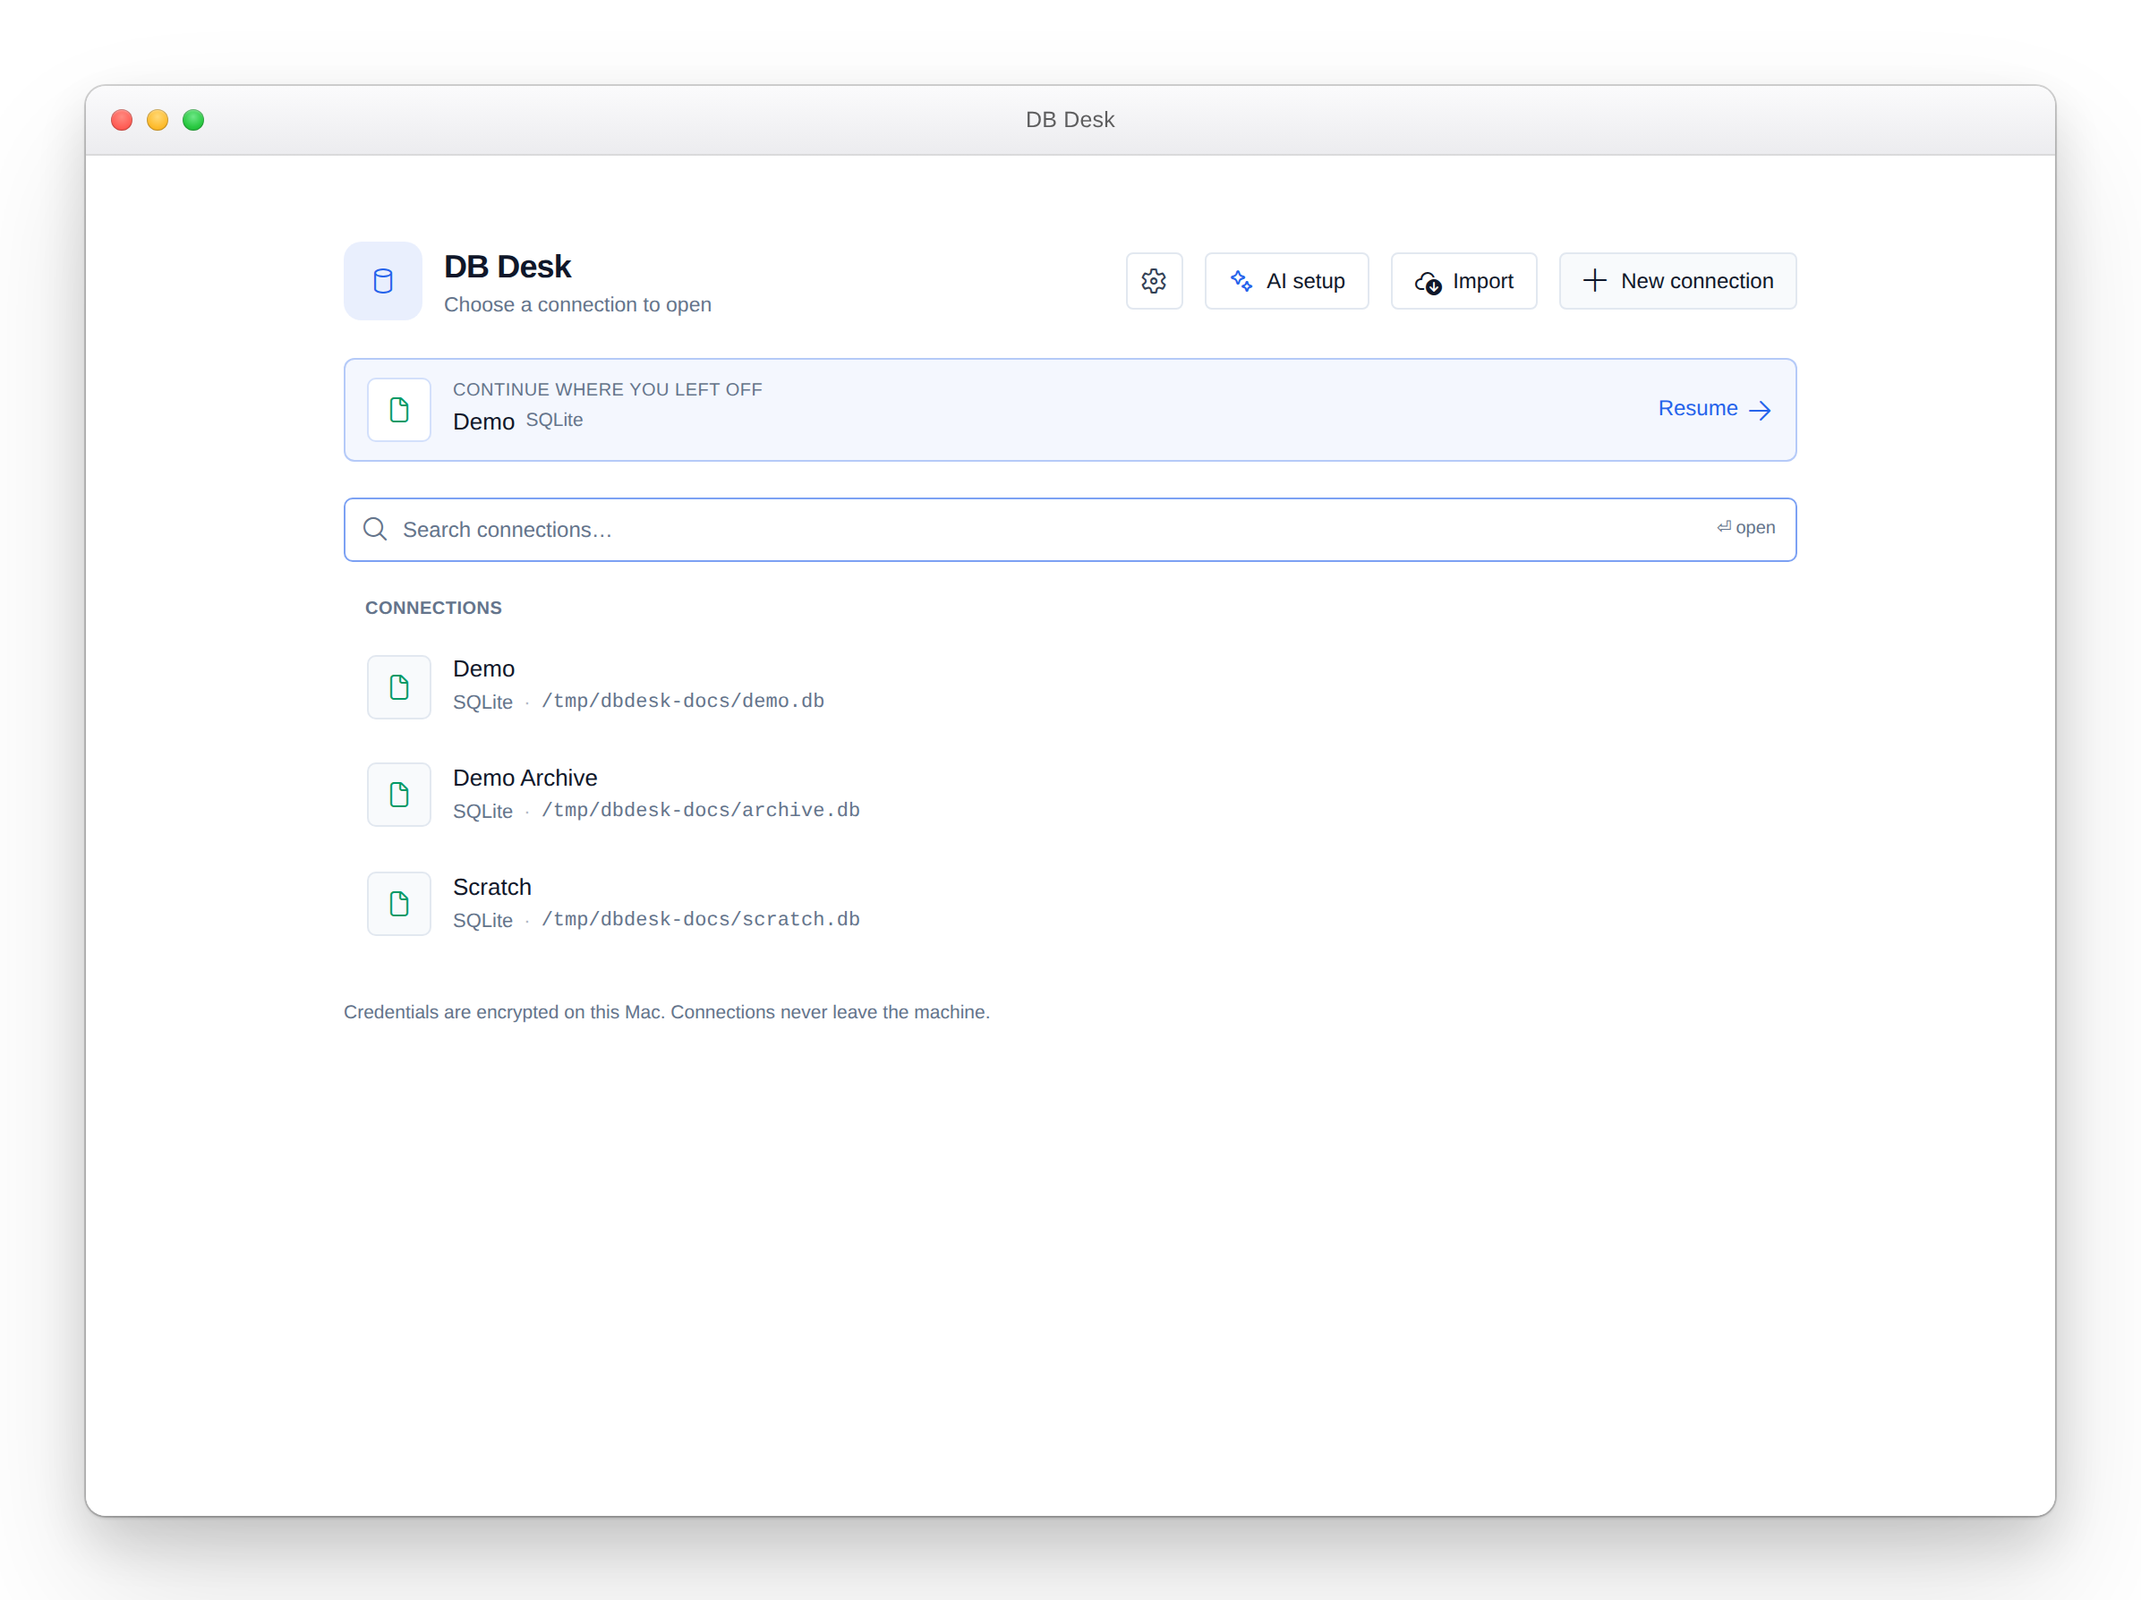
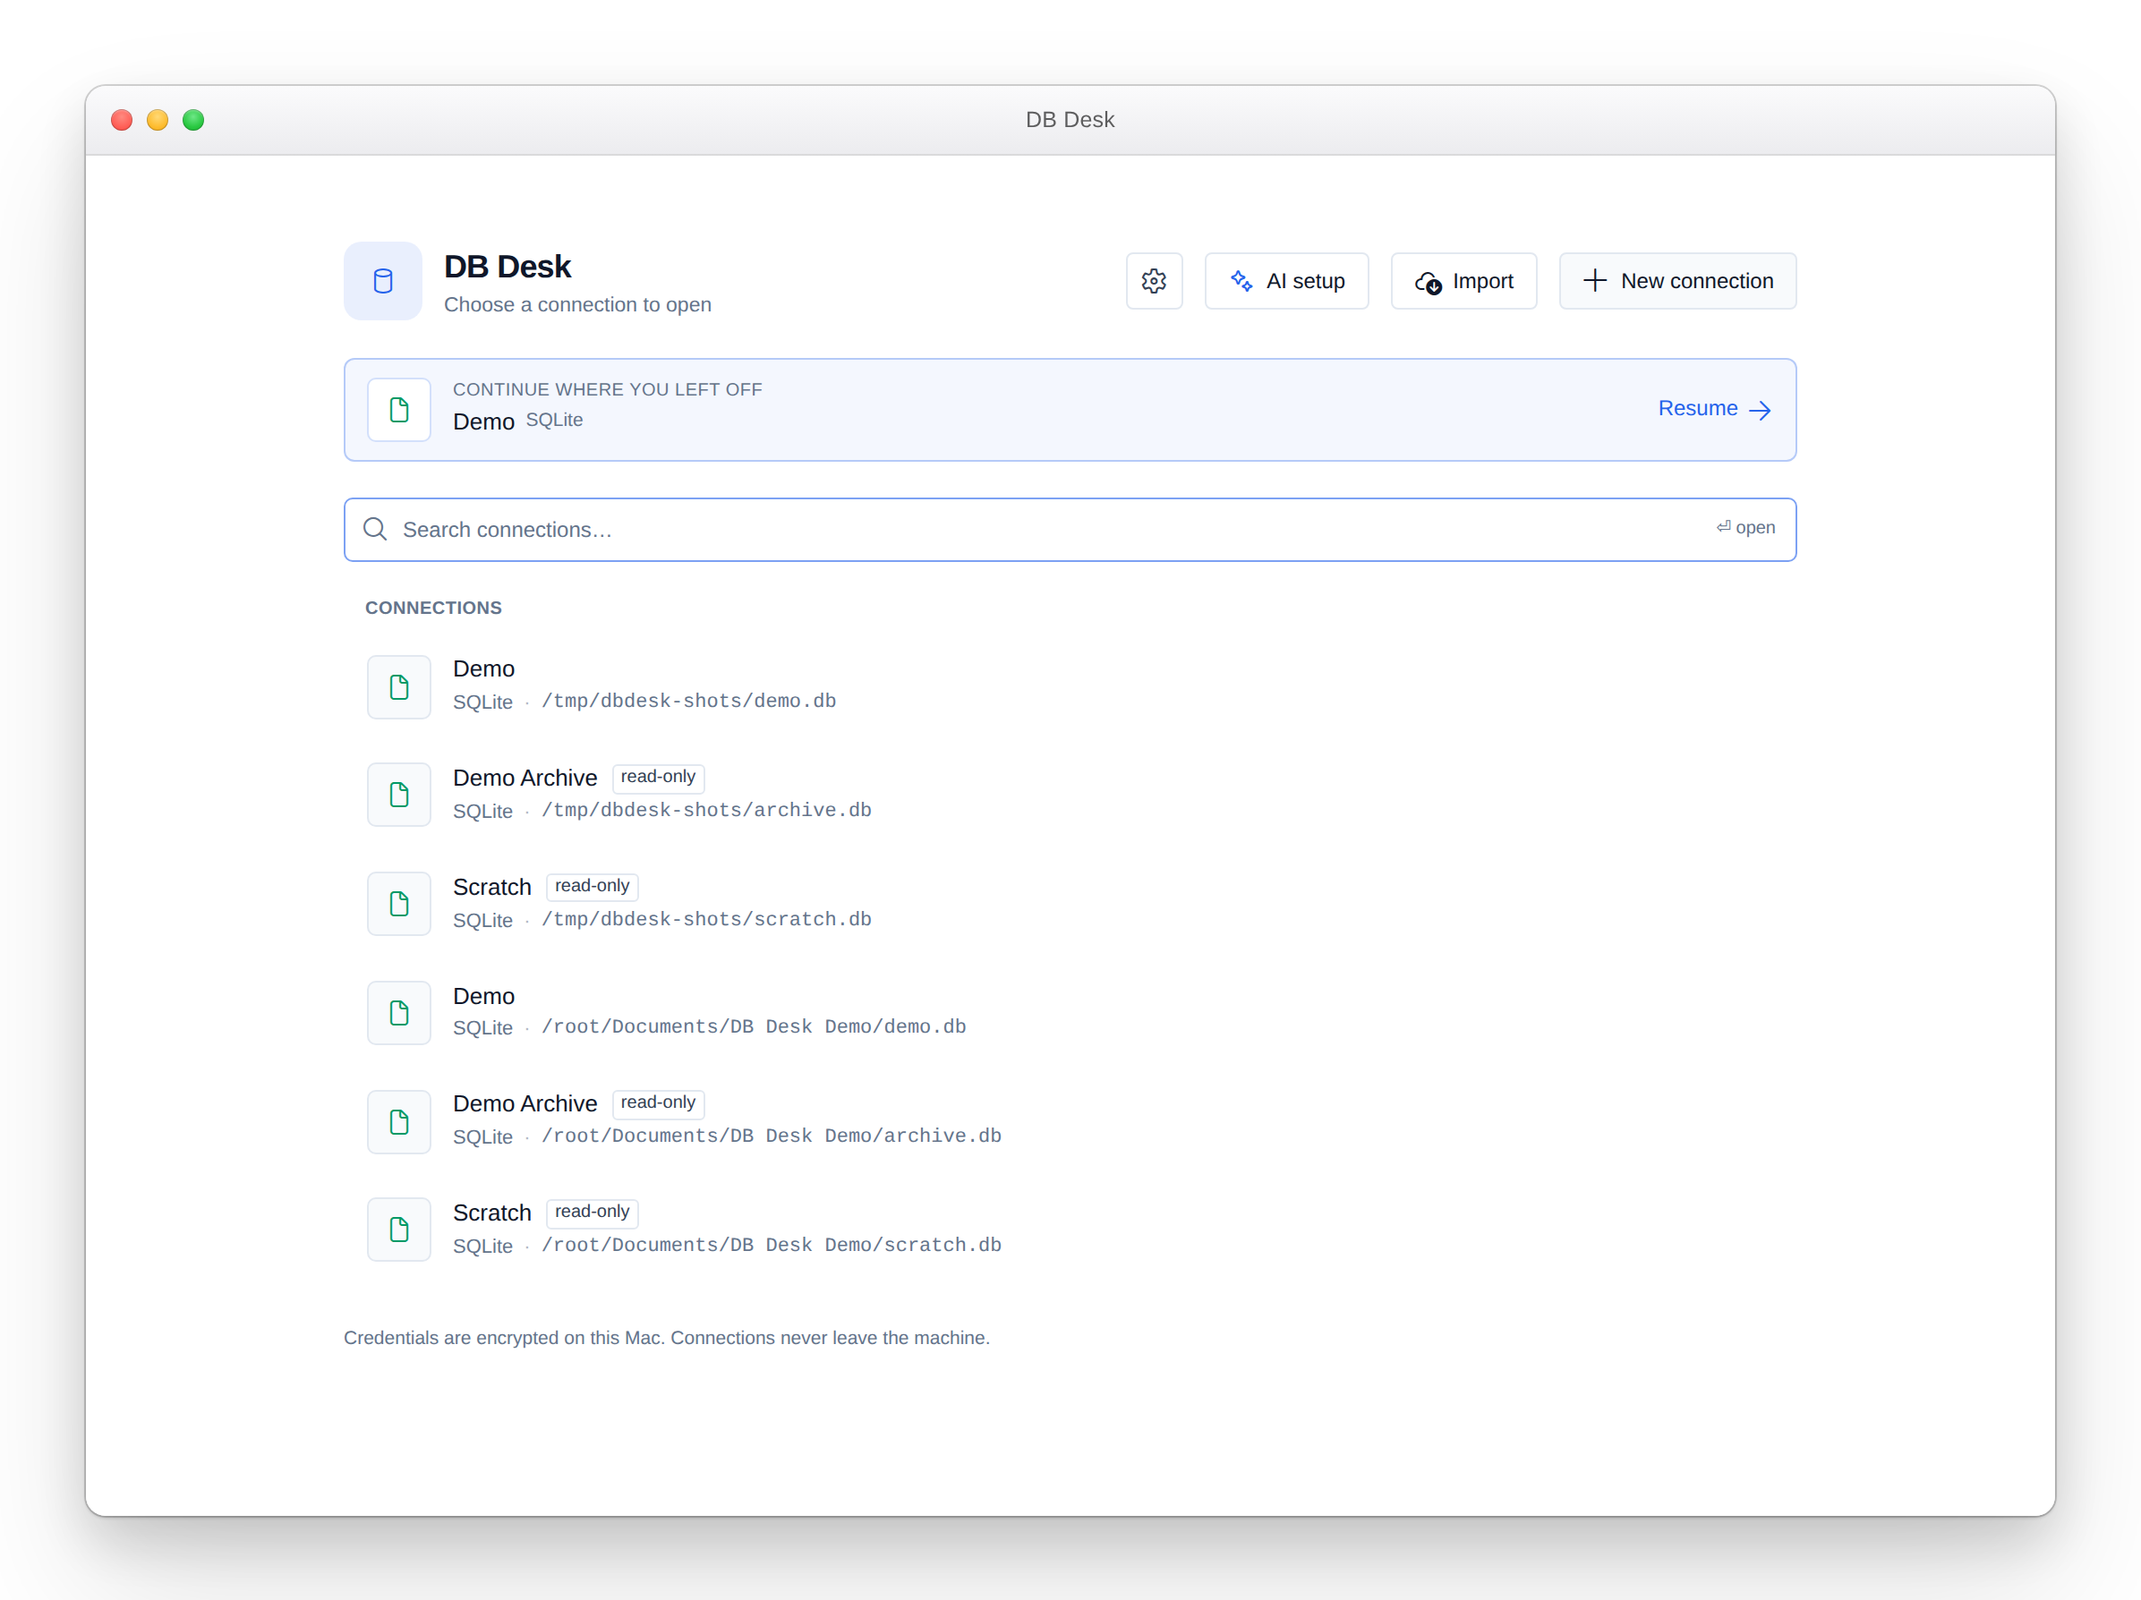
docs: re-shoot the screenshots on 0.13.12, and fix what the shoot exposed
The old images showed 0.13.8 with data that no longer matched the UI. Both steps are
scripts now, so the next re-shoot is two commands instead of an afternoon:

- make-demo-db.py builds demo/archive/scratch SQLite files from invented fixture data
  (16 customers, 17 orders, products, events) — deterministic, so a re-shot screenshot
  never contradicts an earlier one.
- capture-screenshots.py drives the real UI at 1100x760@2x and asserts what it expects:
  the filter must actually narrow the grid (17 rows -> 12 paid), the SQL tab must report
  results. A UI change fails here instead of shipping a shot of the wrong thing.

The filter screenshot now shows the filter applied; the old one showed a draft while
the grid still listed pending and refunded rows beside it.

Shooting the picker exposed a real API bug: POST /connections doubles as the update
endpoint, and a partial body (flipping declare -r BASHOPTS="checkwinsize:cmdhist:complete_fullquote:extquote:force_fignore:globasciiranges:globskipdots:hostcomplete:interactive_comments:patsub_replacement:progcomp:promptvars:sourcepath"
declare -ar BASH_VERSINFO=([0]="5" [1]="2" [2]="21" [3]="1" [4]="release" [5]="x86_64-pc-linux-gnu")
declare -ir EUID="0"
declare -ir PPID="2232120"
declare -r SHELLOPTS="braceexpand:hashall:interactive-comments"
declare -ir UID="0") renamed the connection to 'Database'
because only the name lacked a fall-back to the stored row. Fixed, with a regression
test.

diff --git a/scripts/capture-screenshots.py b/scripts/capture-screenshots.py
@@ -1,0 +1,123 @@
+#!/usr/bin/env python3
+"""Re-take the documentation screenshots against the current build.
+
+Run it against a scratch instance of the app (desktop mode, throwaway DBDESK_HOME),
+then frame the results with scripts/frame-window.py:
+
+    scripts/make-demo-db.py /tmp/dbdesk-shots
+    PORT=8930 DBDESK_HOME=/tmp/dbdesk-shots-home python backend/app.py &
+    scripts/capture-screenshots.py http://127.0.0.1:8930 docs/img/src
+    scripts/frame-window.py docs/img/src docs/img
+
+Every step asserts what it expects instead of sleeping and hoping, so a UI change
+fails loudly here rather than shipping a screenshot of the wrong thing.
+"""
+
+from __future__ import annotations
+
+import sys
+from pathlib import Path
+
+from playwright.sync_api import sync_playwright
+
+WIDTH, HEIGHT, SCALE = 1100, 760, 2
+
+QUERY = """select o.id, c.name, o.total, o.status
+from orders o
+join customers c on c.id = o.customer_id
+order by o.total desc
+limit 12;
+"""
+
+
+def open_connection(page, name: str = "Demo") -> str:
+    """Open one named connection, whatever state the picker is in.
+
+    By name, not by index: saving a connection moves it to the end of the list, so the
+    first entry is whatever was edited last.
+    """
+    connection = page.evaluate(
+        """async (name) => {
+             const all = (await (await fetch('/api/connections')).json()).connections;
+             const hit = all.find(c => c.name === name);
+             if (!hit) throw new Error('no connection named ' + name);
+             return hit.id;
+           }""",
+        name,
+    )
+    page.evaluate(f"localStorage.setItem('dbdesk.activeConnection','{connection}')")
+    page.reload(wait_until="networkidle")
+    page.wait_for_timeout(800)
+    # The picker advertises "⏎ open" for the remembered connection.
+    page.keyboard.press("Enter")
+    page.wait_for_selector("button:has-text('orders')", timeout=15000)
+    return connection
+
+
+def open_table(page, name: str) -> None:
+    page.get_by_role("button", name=name, exact=True).first.click()
+    page.wait_for_selector(".dbd-grid-table tbody tr", timeout=15000)
+    page.wait_for_timeout(600)
+
+
+def main() -> int:
+    base = sys.argv[1] if len(sys.argv) > 1 else "http://127.0.0.1:8930"
+    out = Path(sys.argv[2] if len(sys.argv) > 2 else "docs/img/src")
+    out.mkdir(parents=True, exist_ok=True)
+
+    with sync_playwright() as play:
+        browser = play.chromium.launch(channel="chrome", args=["--no-sandbox"])
+        context = browser.new_context(
+            viewport={"width": WIDTH, "height": HEIGHT}, device_scale_factor=SCALE
+        )
+        page = context.new_page()
+
+        page.goto(f"{base}/", wait_until="networkidle")
+        page.wait_for_timeout(700)
+        open_connection(page)
+        open_table(page, "orders")
+
+        # 1. The table view.
+        page.screenshot(path=str(out / "standalone.png"))
+        print("standalone.png", page.title())
+
+        # 2. Back to the picker, which now offers to resume the last connection.
+        page.get_by_role("button", name="All connections").click()
+        page.wait_for_selector("text=CONTINUE WHERE YOU LEFT OFF", timeout=15000)
+        page.wait_for_timeout(400)
+        page.screenshot(path=str(out / "connection-picker.png"))
+        print("connection-picker.png")
+
+        # 3. Filters: raw SQL, applied — the grid must actually narrow.
+        page.keyboard.press("Enter")
+        page.wait_for_selector("button:has-text('orders')", timeout=15000)
+        open_table(page, "orders")
+        rows_before = page.locator(".dbd-grid-table tbody tr").count()
+        page.get_by_role("button", name="Filter", exact=True).first.click()
+        page.wait_for_selector("input[placeholder^='Pattern']", timeout=10000)
+        page.fill("input[placeholder^='Pattern']", "status = 'paid'")
+        page.get_by_role("button", name="Apply", exact=True).first.click()
+        page.wait_for_timeout(2000)
+        rows_after = page.locator(".dbd-grid-table tbody tr").count()
+        assert rows_after < rows_before, f"filter did not narrow the grid ({rows_before} -> {rows_after})"
+        page.screenshot(path=str(out / "filters.png"))
+        print(f"filters.png  ({rows_before} rows -> {rows_after})")
+
+        # 4. SQL tab with a join.
+        page.get_by_role("button", name="SQL", exact=True).first.click()
+        page.wait_for_selector("textarea", timeout=15000)
+        page.fill("textarea", QUERY)
+        page.wait_for_timeout(300)
+        page.get_by_role("button", name="Run", exact=True).first.click()
+        page.wait_for_timeout(2500)
+        body = page.inner_text("body")
+        assert "rows" in body, "the query produced no result summary"
+        page.screenshot(path=str(out / "sql-tab.png"))
+        print("sql-tab.png")
+
+        browser.close()
+    return 0
+
+
+if __name__ == "__main__":
+    raise SystemExit(main())

diff --git a/scripts/make-demo-db.py b/scripts/make-demo-db.py
@@ -1,0 +1,135 @@
+#!/usr/bin/env python3
+"""Build the demo databases the documentation screenshots are taken against.
+
+Deterministic on purpose: the same bytes every run, so a re-shot screenshot never
+shows data that contradicts an earlier one. All of it is invented sample data — the
+names, orders and events are fixtures, not anything from a real database.
+
+    scripts/make-demo-db.py /tmp/dbdesk-shots
+"""
+
+from __future__ import annotations
+
+import sqlite3
+import sys
+from pathlib import Path
+
+CUSTOMERS = [
+    ("Aisiyah Rahman", "aisiyah@example.com", "MY"),
+    ("Bilal Hassan", "bilal@example.com", "MY"),
+    ("Chloe Lim", "chloe@example.com", "SG"),
+    ("Divya Menon", "divya@example.com", "SG"),
+    ("Farah Idris", "farah@example.com", "MY"),
+    ("Gopal Menon", "gopal@example.com", "MY"),
+    ("Hana Lee", "hana@example.com", "KR"),
+    ("Imran Shah", "imran@example.com", "PK"),
+    ("Jia Wei", "jiawei@example.com", "TW"),
+    ("Kavya Nair", "kavya@example.com", "IN"),
+    ("Liam Ong", "liam@example.com", "SG"),
+    ("Maya Sari", "maya@example.com", "ID"),
+    ("Nadia Aziz", "nadia@example.com", "MY"),
+    ("Omar Yusof", "omar@example.com", "MY"),
+    ("Nurul Izzah", "nurul@example.com", "MY"),
+    ("Qistina Rosli", "qistina@example.com", "BN"),
+]
+
+ORDERS = [
+    (1, 1, 49.90, "paid", "2026-11-05T09:00:00"),
+    (2, 2, 12.50, "paid", "2026-11-05T10:00:00"),
+    (3, 1, 8.00, "pending", "2026-11-06T11:00:00"),
+    (4, 3, 49.90, "paid", "2026-11-06T12:00:00"),
+    (5, 4, 21.00, "refunded", "2026-11-07T13:00:00"),
+    (6, 5, 95.00, "paid", "2026-11-15T10:00:00"),
+    (7, 6, 112.00, "paid", "2026-11-16T10:00:00"),
+    (8, 7, 129.00, "paid", "2026-11-17T10:00:00"),
+    (9, 8, 26.00, "pending", "2026-11-18T10:00:00"),
+    (10, 9, 43.00, "paid", "2026-11-19T10:00:00"),
+    (11, 10, 60.00, "paid", "2026-11-20T10:00:00"),
+    (12, 11, 77.00, "paid", "2026-11-21T10:00:00"),
+    (13, 12, 94.00, "pending", "2026-11-22T10:00:00"),
+    (14, 13, 111.00, "paid", "2026-11-23T10:00:00"),
+    (15, 14, 128.00, "paid", "2026-11-10T10:00:00"),
+    (16, 15, 25.00, "paid", "2026-11-11T10:00:00"),
+    (17, 16, 42.00, "pending", "2026-11-12T10:00:00"),
+]
+
+PRODUCTS = [
+    (1, "Espresso beans 1kg", 42.00, 180),
+    (2, "Filter papers (100)", 9.50, 640),
+    (3, "Ceramic dripper", 68.00, 54),
+    (4, "Cold brew bottle", 24.00, 210),
+    (5, "Gift card RM100", 100.00, 999),
+]
+
+EVENTS = [
+    (1, "order.created", 1, "2026-11-05T09:00:00"),
+    (2, "payment.captured", 1, "2026-11-05T09:00:04"),
+    (3, "order.created", 5, "2026-11-07T13:00:00"),
+    (4, "order.refunded", 5, "2026-11-08T09:12:00"),
+    (5, "order.created", 8, "2026-11-17T10:00:00"),
+    (6, "payment.captured", 8, "2026-11-17T10:00:03"),
+]
+
+SCHEMA = """
+create table customers (
+  id integer primary key,
+  name text not null,
+  email text not null,
+  country text not null
+);
+create table orders (
+  id integer primary key,
+  customer_id integer not null references customers(id),
+  total real not null,
+  status text not null,
+  created_at text not null
+);
+create table products (
+  id integer primary key,
+  name text not null,
+  price real not null,
+  stock integer not null
+);
+create table events (
+  id integer primary key,
+  name text not null,
+  order_id integer references orders(id),
+  created_at text not null
+);
+create index orders_customer_id on orders(customer_id);
+create index events_order_id on events(order_id);
+"""
+
+
+def build(path: Path, *, with_data: bool) -> None:
+    path.parent.mkdir(parents=True, exist_ok=True)
+    if path.exists():
+        path.unlink()
+    con = sqlite3.connect(path)
+    con.executescript(SCHEMA)
+    if with_data:
+        con.executemany("insert into customers values (?,?,?,?)", [
+            (index, *row) for index, row in enumerate(CUSTOMERS, start=1)
+        ])
+        con.executemany("insert into orders values (?,?,?,?,?)", ORDERS)
+        con.executemany("insert into products values (?,?,?,?)", PRODUCTS)
+        con.executemany("insert into events values (?,?,?,?)", EVENTS)
+    con.commit()
+    counts = {
+        table: con.execute(f"select count(*) from {table}").fetchone()[0]
+        for table in ("customers", "orders", "products", "events")
+    }
+    con.close()
+    print(f"{path}  {counts}")
+
+
+def main() -> int:
+    target = Path(sys.argv[1] if len(sys.argv) > 1 else Path.home() / "Documents" / "DB Desk Demo")
+    build(target / "demo.db", with_data=True)
+    build(target / "archive.db", with_data=False)
+    build(target / "scratch.db", with_data=False)
+    return 0
+
+
+if __name__ == "__main__":
+    raise SystemExit(main())

diff --git a/tests/test_connection_partial_save.py b/tests/test_connection_partial_save.py
@@ -1,0 +1,51 @@
+"""Saving part of a connection must not clear the parts you did not send.
+
+The save endpoint doubles as the update endpoint (`id` in the body), and every field
+falls back to the stored row — except the name, which fell back to "Database". Flipping
+`readonly` from a script silently renamed the connection; this keeps that from
+returning.
+"""
+
+from __future__ import annotations
+
+import os
+import sys
+import tempfile
+import unittest
+from pathlib import Path
+
+ROOT = Path(__file__).resolve().parents[1]
+sys.path.insert(0, str(ROOT / "backend"))
+
+os.environ.setdefault("DBDESK_HOME", tempfile.mkdtemp(prefix="dbdesk-connsave-"))
+
+from fastapi.testclient import TestClient  # noqa: E402
+
+import app as server  # noqa: E402
+
+
+class PartialConnectionSaveTest(unittest.TestCase):
+    def setUp(self):
+        self.client = TestClient(server.app)
+        self.db = Path(tempfile.mkdtemp(prefix="dbdesk-connsave-db-")) / "demo.db"
+
+    def save(self, payload):
+        response = self.client.post("/api/connections", json=payload)
+        self.assertEqual(response.status_code, 200, response.text)
+        return response.json()["connection"]
+
+    def test_readonly_flip_keeps_the_name_and_path(self):
+        created = self.save({"name": "Demo", "kind": "sqlite", "dbname": str(self.db)})
+        updated = self.save({"id": created["id"], "readonly": not created["readonly"]})
+        self.assertEqual(updated["name"], "Demo")
+        self.assertEqual(updated["dbname"], str(self.db))
+        self.assertEqual(updated["readonly"], not created["readonly"])
+
+    def test_rename_still_works(self):
+        created = self.save({"name": "Demo", "kind": "sqlite", "dbname": str(self.db)})
+        renamed = self.save({"id": created["id"], "name": "Shop"})
+        self.assertEqual(renamed["name"], "Shop")
+
+
+if __name__ == "__main__":
+    unittest.main()

diff --git a/backend/dbdesk_api.py b/backend/dbdesk_api.py
@@ -6212,7 +6212,13 @@ async def save_connection(body: dict[str, Any]) -> dict[str, Any]:
             return existing.get(key)
         return default
 
-    name = (body.get("name") or "").strip() or (body.get("dbname") or "").strip() or "Database"
+    # A partial save (say, flipping `readonly`) must not rename the connection: every
+    # other field falls back to the stored row, and the name has to behave the same.
+    name = (
+        (body.get("name") or (existing or {}).get("name") or "").strip()
+        or (body.get("dbname") or "").strip()
+        or "Database"
+    )
     host = "" if kind in ("mcp", "http", "sqlite") else str(pick("host", "127.0.0.1")).strip()
     port = (
         0
